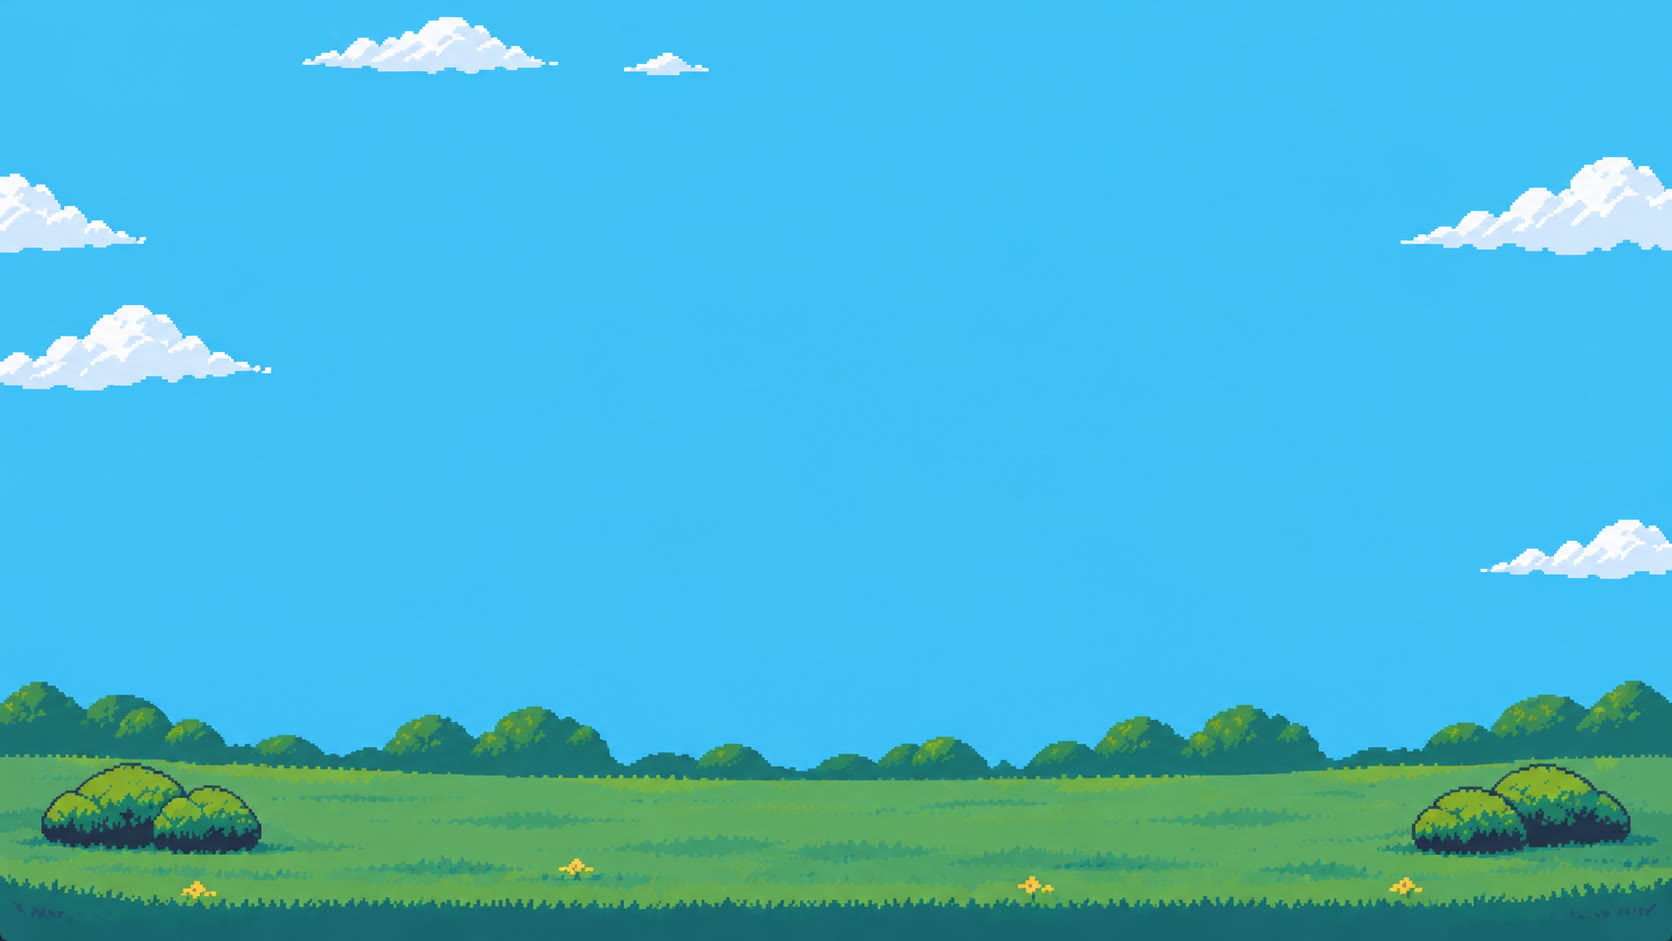
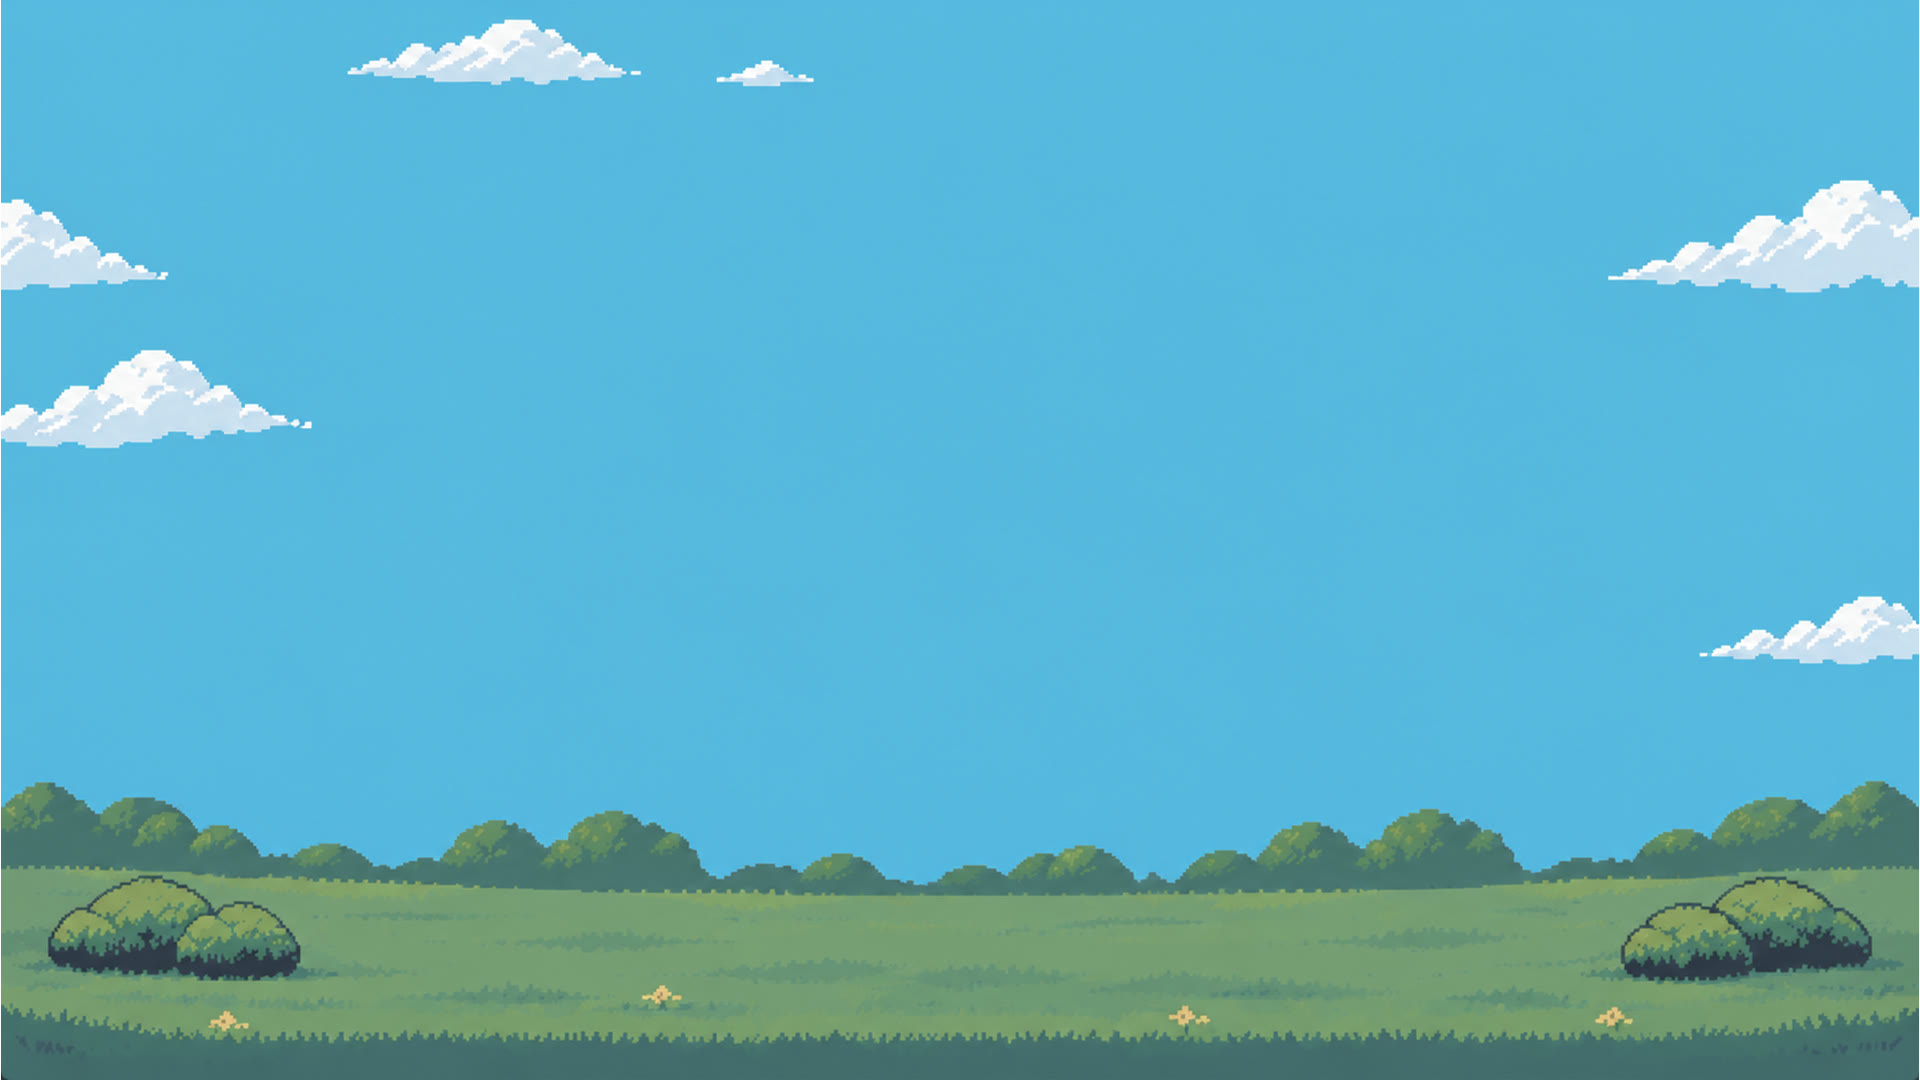
새 인게임 배경·틀(윤곽선 없는 석조 틀)로 교체, 틀 안쪽 위치 다시 맞춤

diff --git a/index.html b/index.html
@@ -297,8 +297,8 @@ h2{font-size:clamp(28px,4vw,48px);line-height:1.3;margin:0;text-shadow:2px 0 0 #
 /* ══ 게임 화면 (안암런/인게임 합본): 하늘·풀밭 배경 + 돌 틀 안에 영상 + 틀 아래 하얀 대화창 ══
    --fw/--fh/--fx/--fy: 돌 틀 크기·위치, --il/--it/--iw/--ih: 틀 안쪽 구멍 (틀 그림 기준 비율) */
 #stage{background:#41bdf5 url(art/ingame_bg.jpg) center bottom/cover no-repeat;
-  --fw:min(97vw,calc(84vh * 1672 / 941));--fh:calc(var(--fw) * 941 / 1672);--fx:calc((100vw - var(--fw)) / 2);--fy:1.2vh;
-  --il:.0772;--it:.1275;--iw:.845;--ih:.7673}
+  --fw:min(97vw,calc(84vh * 1920 / 1080));--fh:calc(var(--fw) * 1080 / 1920);--fx:calc((100vw - var(--fw)) / 2);--fy:1.2vh;
+  --il:.0755;--it:.1213;--iw:.8479;--ih:.7787}
 #stage video,#stage #px{inset:auto;transform:none;left:calc(var(--fx) + var(--fw) * (var(--il) - .004));top:calc(var(--fy) + var(--fh) * (var(--it) - .006));
   width:calc(var(--fw) * (var(--iw) + .008));height:calc(var(--fh) * (var(--ih) + .012));object-fit:cover;background:#000}
 #frame{position:absolute;left:var(--fx);top:var(--fy);width:var(--fw);height:var(--fh);background:url(art/ingame_frame.png) 0 0/100% 100% no-repeat;z-index:2;pointer-events:none}
